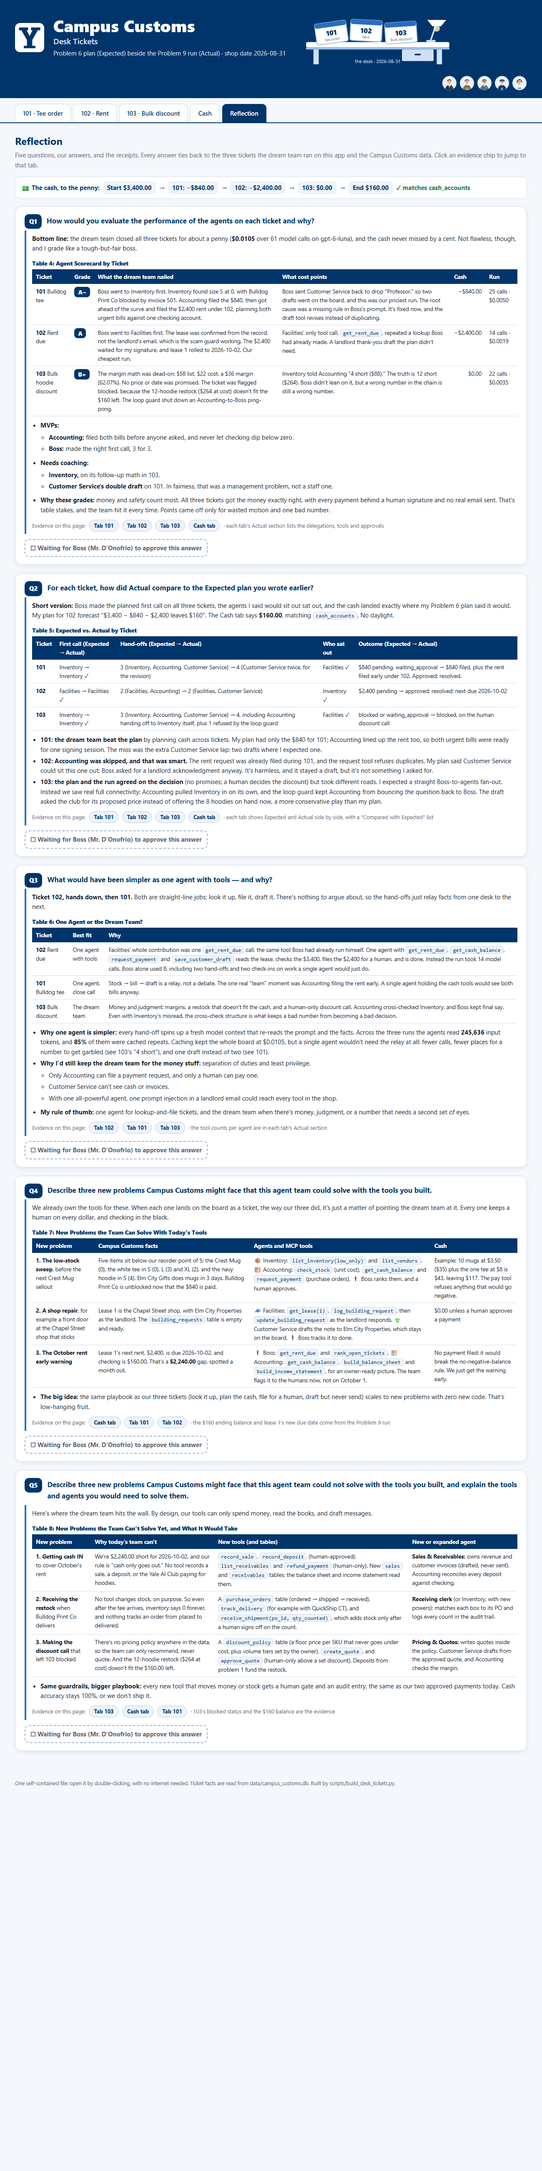
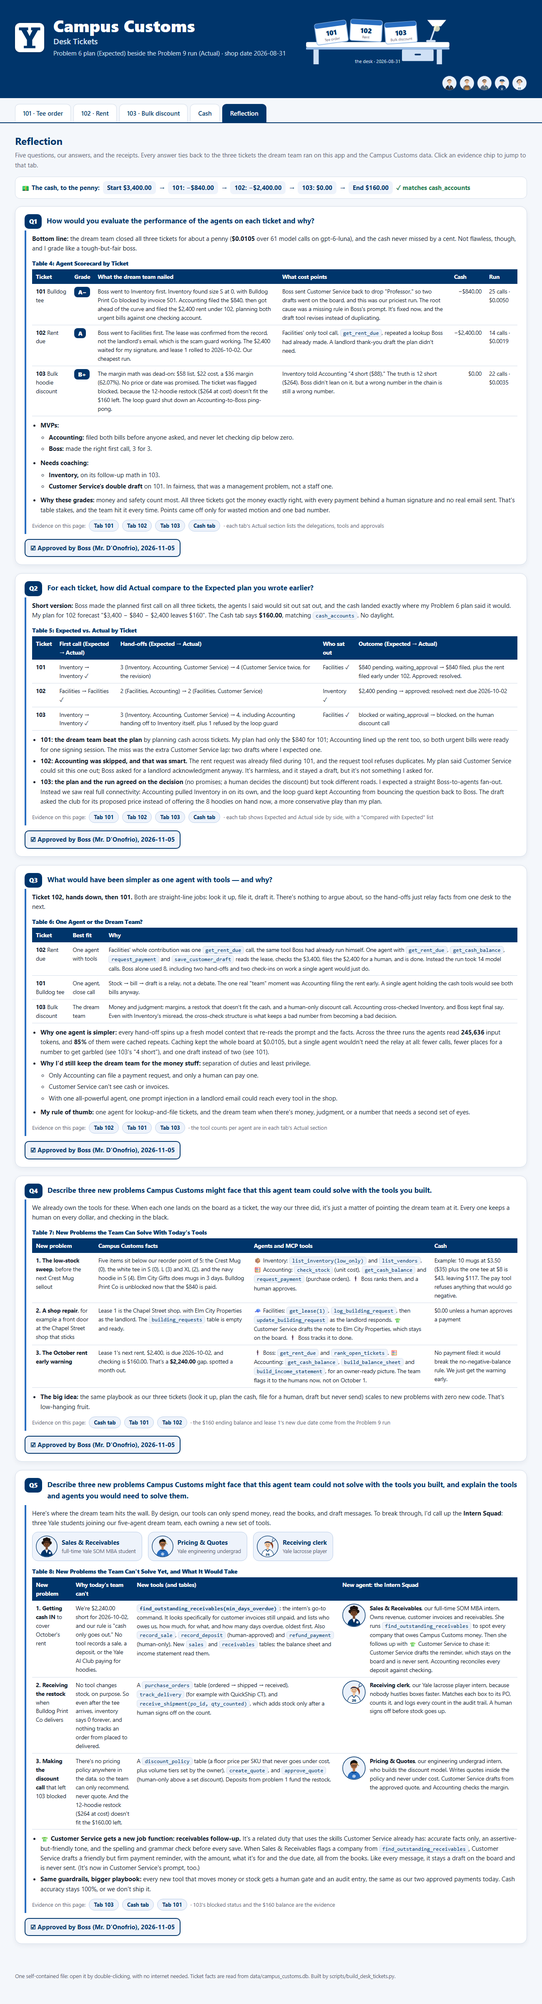
Problem 10: all five answers approved; the Intern Squad
Three Yale student intern avatars in Q5 Table 8, find_outstanding_receivables
for Sales & Receivables, and receivables follow-up as a related Customer
Service duty (prompt updated).

diff --git a/hw5/output/desk_tickets.html b/hw5/output/desk_tickets.html
@@ -1833,6 +1833,9 @@ footer{color:var(--muted);font-size:12.5px;padding:0 36px 30px}
 .qa table{width:100%;border-collapse:collapse;margin:10px 0;font-size:13.5px}.qa caption{text-align:left;font-weight:800;color:var(--yale);padding:4px 0}
 .qa th{background:var(--yale);color:#fff;text-align:left;padding:7px 9px;vertical-align:top}.qa td{border-bottom:1px solid var(--line);padding:7px 9px;vertical-align:top}
 .qa td.n{white-space:nowrap;text-align:right}
+.squad{display:flex;flex-wrap:wrap;gap:14px;margin:10px 0 6px}.squad .who{display:flex;gap:10px;align-items:center;background:var(--tint);border:1px solid #b9cde8;border-radius:14px;padding:8px 14px 8px 8px}
+.squad .who b{color:var(--yale)}.squad .who small{display:block;color:var(--muted)}
+.agentcell{display:flex;gap:10px;align-items:flex-start}.agentcell svg{flex:none}
 .grade{display:inline-block;background:var(--yale);color:#fff;font-weight:900;border-radius:8px;padding:2px 9px}
 .ev{display:flex;flex-wrap:wrap;gap:8px;align-items:center;margin:12px 0 4px;font-size:13px;color:var(--muted)}
 .ev label{cursor:pointer;background:var(--tint);color:var(--yale);border:1px solid #b9cde8;border-radius:999px;padding:3px 11px;font-weight:700}
@@ -1863,7 +1866,7 @@ footer{color:var(--muted);font-size:12.5px;padding:0 36px 30px}
   <li><b>Customer Service's double draft</b> on 101. In fairness, that was a management problem, not a staff one.</li>
   </ul></li>
 <li><b>Why these grades:</b> money and safety count most. All three tickets got the money exactly right, with every payment behind a human signature and no real email sent. That's table stakes, and the team hit it every time. Points came off only for wasted motion and one bad number.</li>
-</ul><div class="ev">Evidence on this page: <label for="r101">Tab 101</label><label for="r102">Tab 102</label><label for="r103">Tab 103</label><label for="rcash">Cash tab</label> · each tab's Actual section lists the delegations, tools and approvals</div></div><div class="approve">☐ Waiting for Boss (Mr. D'Onofrio) to approve this answer</div></div>
+</ul><div class="ev">Evidence on this page: <label for="r101">Tab 101</label><label for="r102">Tab 102</label><label for="r103">Tab 103</label><label for="rcash">Cash tab</label> · each tab's Actual section lists the delegations, tools and approvals</div></div><div class="approve yes">☑ Approved by Boss (Mr. D'Onofrio), 2026-11-05</div></div>
 <div class="qa" id="q2"><div class="q"><span class="qn">Q2</span><h3>For each ticket, how did Actual compare to the Expected plan you wrote earlier?</h3></div>
   <div class="answer"><p><b>Short version:</b> Boss made the planned first call on all three tickets, the agents I said would sit out sat out, and the cash landed exactly where my Problem 6 plan said it would. My plan for 102 forecast "$3,400 − $840 − $2,400 leaves $160". The Cash tab says <b>$160.00</b>, matching <code>cash_accounts</code>. No daylight.</p>
 <table><caption>Table 5: Expected vs. Actual by Ticket</caption>
@@ -1876,7 +1879,7 @@ footer{color:var(--muted);font-size:12.5px;padding:0 36px 30px}
 <li><b>101: the dream team beat the plan</b> by planning cash across tickets. My plan had only the $840 for 101; Accounting lined up the rent too, so both urgent bills were ready for one signing session. The miss was the extra Customer Service lap: two drafts where I expected one.</li>
 <li><b>102: Accounting was skipped, and that was smart.</b> The rent request was already filed during 101, and the request tool refuses duplicates. My plan said Customer Service could sit this one out; Boss asked for a landlord acknowledgment anyway. It's harmless, and it stayed a draft, but it's not something I asked for.</li>
 <li><b>103: the plan and the run agreed on the decision</b> (no promises; a human decides the discount) but took different roads. I expected a straight Boss-to-agents fan-out. Instead we saw real full connectivity: Accounting pulled Inventory in on its own, and the loop guard kept Accounting from bouncing the question back to Boss. The draft asked the club for its proposed price instead of offering the 8 hoodies on hand now, a more conservative play than my plan.</li>
-</ul><div class="ev">Evidence on this page: <label for="r101">Tab 101</label><label for="r102">Tab 102</label><label for="r103">Tab 103</label><label for="rcash">Cash tab</label> · each tab shows Expected and Actual side by side, with a "Compared with Expected" list</div></div><div class="approve">☐ Waiting for Boss (Mr. D'Onofrio) to approve this answer</div></div>
+</ul><div class="ev">Evidence on this page: <label for="r101">Tab 101</label><label for="r102">Tab 102</label><label for="r103">Tab 103</label><label for="rcash">Cash tab</label> · each tab shows Expected and Actual side by side, with a "Compared with Expected" list</div></div><div class="approve yes">☑ Approved by Boss (Mr. D'Onofrio), 2026-11-05</div></div>
 <div class="qa" id="q3"><div class="q"><span class="qn">Q3</span><h3>What would have been simpler as one agent with tools — and why?</h3></div>
   <div class="answer"><p><b>Ticket 102, hands down, then 101.</b> Both are straight-line jobs: look it up, file it, draft it. There's nothing to argue about, so the hand-offs just relay facts from one desk to the next.</p>
 <table><caption>Table 6: One Agent or the Dream Team?</caption>
@@ -1894,7 +1897,7 @@ footer{color:var(--muted);font-size:12.5px;padding:0 36px 30px}
   <li>With one all-powerful agent, one prompt injection in a landlord email could reach every tool in the shop.</li>
   </ul></li>
 <li><b>My rule of thumb:</b> one agent for lookup-and-file tickets, and the dream team when there's money, judgment, or a number that needs a second set of eyes.</li>
-</ul><div class="ev">Evidence on this page: <label for="r102">Tab 102</label><label for="r101">Tab 101</label><label for="r103">Tab 103</label> · the tool counts per agent are in each tab's Actual section</div></div><div class="approve">☐ Waiting for Boss (Mr. D'Onofrio) to approve this answer</div></div>
+</ul><div class="ev">Evidence on this page: <label for="r102">Tab 102</label><label for="r101">Tab 101</label><label for="r103">Tab 103</label> · the tool counts per agent are in each tab's Actual section</div></div><div class="approve yes">☑ Approved by Boss (Mr. D'Onofrio), 2026-11-05</div></div>
 <div class="qa" id="q4"><div class="q"><span class="qn">Q4</span><h3>Describe three new problems Campus Customs might face that this agent team could solve with the tools you built.</h3></div>
   <div class="answer"><p>We already own the tools for these. When each one lands on the board as a ticket, the way our three did, it's just a matter of pointing the dream team at it. Every one keeps a human on every dollar, and checking in the black.</p>
 <table><caption>Table 7: New Problems the Team Can Solve With Today's Tools</caption>
@@ -1903,16 +1906,152 @@ footer{color:var(--muted);font-size:12.5px;padding:0 36px 30px}
 <tr><td><b>2. A shop repair</b>, for example a front door at the Chapel Street shop that sticks</td><td>Lease 1 is the Chapel Street shop, with Elm City Properties as the landlord. The <code>building_requests</code> table is empty and ready.</td><td>🧢 Facilities: <code>get_lease(1)</code>, <code>log_building_request</code>, then <code>update_building_request</code> as the landlord responds. 👕 Customer Service drafts the note to Elm City Properties, which stays on the board. 🕴 Boss tracks it to done.</td><td>$0.00 unless a human approves a payment</td></tr>
 <tr><td><b>3. The October rent early warning</b></td><td>Lease 1's next rent, $2,400, is due 2026-10-02, and checking is $160.00. That's a <b>$2,240.00</b> gap, spotted a month out.</td><td>🕴 Boss: <code>get_rent_due</code> and <code>rank_open_tickets</code>. 🧮 Accounting: <code>get_cash_balance</code>, <code>build_balance_sheet</code> and <code>build_income_statement</code>, for an owner-ready picture. The team flags it to the humans now, not on October 1.</td><td>No payment filed: it would break the no-negative-balance rule. We just get the warning early.</td></tr>
 </table>
-<ul><li><b>The big idea:</b> the same playbook as our three tickets (look it up, plan the cash, file for a human, draft but never send) scales to new problems with zero new code. That's low-hanging fruit.</li></ul><div class="ev">Evidence on this page: <label for="rcash">Cash tab</label><label for="r101">Tab 101</label><label for="r102">Tab 102</label> · the $160 ending balance and lease 1's new due date come from the Problem 9 run</div></div><div class="approve">☐ Waiting for Boss (Mr. D'Onofrio) to approve this answer</div></div>
+<ul><li><b>The big idea:</b> the same playbook as our three tickets (look it up, plan the cash, file for a human, draft but never send) scales to new problems with zero new code. That's low-hanging fruit.</li></ul><div class="ev">Evidence on this page: <label for="rcash">Cash tab</label><label for="r101">Tab 101</label><label for="r102">Tab 102</label> · the $160 ending balance and lease 1's new due date come from the Problem 9 run</div></div><div class="approve yes">☑ Approved by Boss (Mr. D'Onofrio), 2026-11-05</div></div>
 <div class="qa" id="q5"><div class="q"><span class="qn">Q5</span><h3>Describe three new problems Campus Customs might face that this agent team could not solve with the tools you built, and explain the tools and agents you would need to solve them.</h3></div>
-  <div class="answer"><p>Here's where the dream team hits the wall. By design, our tools can only spend money, read the books, and draft messages.</p>
+  <div class="answer"><p>Here's where the dream team hits the wall. By design, our tools can only spend money, read the books, and draft messages. To break through, I'd call up the <b>Intern Squad</b>: three Yale students joining our five-agent dream team, each owning a new set of tools.</p>
+<div class="squad">
+  <div class="who"><svg width="52" height="52" class="intern-face" xmlns="http://www.w3.org/2000/svg" viewBox="0 0 120 120" role="img" aria-label="Intern Squad, Sales and Receivables: a full-time Yale SOM MBA student in a navy blazer with an SOM pin">
+  <title>Intern Squad · Sales &amp; Receivables: a full-time Yale SOM MBA student in a navy blazer with an SOM pin</title>
+  <circle cx="60" cy="60" r="58" fill="#eaf1fb" stroke="#00356b" stroke-width="3"/>
+  <clipPath id="c-intern_mba-52"><circle cx="60" cy="60" r="56"/></clipPath>
+  <g clip-path="url(#c-intern_mba-52)">
+    <g fill="#1d1410">
+      <circle cx="60" cy="42" r="22"/><circle cx="41" cy="40" r="9"/><circle cx="79" cy="40" r="9"/>
+      <circle cx="49" cy="24" r="10"/><circle cx="71" cy="24" r="10"/><circle cx="60" cy="20" r="10"/>
+    </g>
+    <path d="M26,120 C26,90 40,76 60,76 C80,76 94,90 94,120 Z" fill="#00356b"/>
+    <polygon points="51,77 60,98 69,77" fill="#ffffff"/>
+    <path d="M51,77 L57,104 M69,77 L63,104" stroke="#00264d" stroke-width="3" fill="none"/>
+    <circle cx="78" cy="96" r="6" fill="#ffffff"/><text x="78" y="98" font-family="Arial, sans-serif" font-size="4.6" font-weight="700" fill="#00356b" text-anchor="middle">SOM</text>
+    <rect x="54" y="60" width="12" height="18" fill="#7a4a2e"/>
+    <circle cx="60" cy="47" r="17" fill="#7a4a2e"/>
+    <path d="M43,45 C43,30 77,30 77,45 C72,36 48,36 43,45 Z" fill="#1d1410"/>
+    <circle cx="54" cy="48" r="1.8" fill="#111"/><circle cx="66" cy="48" r="1.8" fill="#111"/>
+    <path d="M51,44 Q54,42 57,44 M63,44 Q66,42 69,44" stroke="#1d1410" stroke-width="1.2" fill="none"/>
+    <path d="M54,55 Q60,60 66,55" stroke="#4a2418" stroke-width="1.8" fill="none" stroke-linecap="round"/>
+    <circle cx="43.5" cy="53" r="1.8" fill="#f5d76e"/><circle cx="76.5" cy="53" r="1.8" fill="#f5d76e"/>
+  </g>
+</svg>
+<div><b>Sales &amp; Receivables</b><small>full-time Yale SOM MBA student</small></div></div>
+  <div class="who"><svg width="52" height="52" class="intern-face" xmlns="http://www.w3.org/2000/svg" viewBox="0 0 120 120" role="img" aria-label="Intern Squad, Pricing and Quotes: a Yale engineering undergrad with glasses, a pencil and a gear tee">
+  <title>Intern Squad · Pricing &amp; Quotes: a Yale engineering undergrad with glasses, a pencil and a gear tee</title>
+  <circle cx="60" cy="60" r="58" fill="#eaf1fb" stroke="#00356b" stroke-width="3"/>
+  <clipPath id="c-intern_engineer-52"><circle cx="60" cy="60" r="56"/></clipPath>
+  <g clip-path="url(#c-intern_engineer-52)">
+    <path d="M26,120 C26,90 40,76 60,76 C80,76 94,90 94,120 Z" fill="#286dc0"/>
+    <path d="M48,78 C52,86 68,86 72,78" stroke="#00356b" stroke-width="3" fill="none"/>
+    <circle cx="60" cy="102" r="7" fill="none" stroke="#ffffff" stroke-width="4" stroke-dasharray="3 2.5"/>
+    <circle cx="60" cy="102" r="4.5" fill="#ffffff"/><circle cx="60" cy="102" r="1.8" fill="#286dc0"/>
+    <rect x="54" y="60" width="12" height="18" fill="#b97a4f"/>
+    <circle cx="60" cy="47" r="17" fill="#b97a4f"/>
+    <path d="M42,47 C37,27 48,19 61,20 C75,21 83,31 78,47 C76,38 70,34 60,34 C51,34 45,38 42,47 Z" fill="#111111"/><path d="M52,22 C56,17 64,17 68,21 C63,20 57,21 52,22 Z" fill="#111111"/>
+    <circle cx="54" cy="48" r="5" fill="none" stroke="#1b1b1b" stroke-width="1.6"/>
+    <circle cx="66" cy="48" r="5" fill="none" stroke="#1b1b1b" stroke-width="1.6"/>
+    <path d="M59,48 L61,48 M49,47 L44,45 M71,47 L76,45" stroke="#1b1b1b" stroke-width="1.6"/>
+    <circle cx="54" cy="48" r="1.6" fill="#111"/><circle cx="66" cy="48" r="1.6" fill="#111"/>
+    <path d="M54,56 Q60,60 66,56" stroke="#5a2e1c" stroke-width="1.8" fill="none" stroke-linecap="round"/>
+    <path d="M75,34 L83,46" stroke="#f2c14e" stroke-width="3" stroke-linecap="round"/><path d="M83,46 L84.5,48.5" stroke="#333" stroke-width="2" stroke-linecap="round"/>
+  </g>
+</svg>
+<div><b>Pricing &amp; Quotes</b><small>Yale engineering undergrad</small></div></div>
+  <div class="who"><svg width="52" height="52" class="intern-face" xmlns="http://www.w3.org/2000/svg" viewBox="0 0 120 120" role="img" aria-label="Intern Squad, Receiving clerk: a Yale lacrosse player in a white number 26 jersey and headband, with her stick">
+  <title>Intern Squad · Receiving clerk: a Yale lacrosse player in a white #26 jersey and headband, with her stick</title>
+  <circle cx="60" cy="60" r="58" fill="#eaf1fb" stroke="#00356b" stroke-width="3"/>
+  <clipPath id="c-intern_lacrosse-52"><circle cx="60" cy="60" r="56"/></clipPath>
+  <g clip-path="url(#c-intern_lacrosse-52)">
+    <path d="M24,122 L90,28" stroke="#3a3a3a" stroke-width="3.2" stroke-linecap="round"/>
+    <g transform="translate(94,22) rotate(35)">
+      <ellipse cx="0" cy="0" rx="7" ry="11" fill="#ffffff" fill-opacity=".6" stroke="#00356b" stroke-width="2.6"/>
+      <path d="M-5,-5 L5,-5 M-6,0 L6,0 M-5,5 L5,5 M0,-10 L0,10" stroke="#9cb4d6" stroke-width="1"/>
+    </g>
+    <path d="M74,36 C92,40 95,62 85,74 C86,60 82,49 72,44 Z" fill="#8a3b1e"/>
+    <path d="M26,120 C26,90 40,76 60,76 C80,76 94,90 94,120 Z" fill="#ffffff" stroke="#00356b" stroke-width="2.5"/>
+    <path d="M50,77 L60,88 L70,77" stroke="#00356b" stroke-width="3.5" fill="none"/>
+    <text x="60" y="110" font-family="Arial, sans-serif" font-size="17" font-weight="900" fill="#00356b" text-anchor="middle">26</text>
+    <rect x="54" y="60" width="12" height="18" fill="#f0c39a"/>
+    <circle cx="60" cy="47" r="17" fill="#f0c39a"/>
+    <path d="M43,45 C42,28 78,28 77,45 C73,36 47,36 43,45 Z" fill="#8a3b1e"/>
+    <path d="M43,40 C50,33 70,33 77,40 L77,44 C70,37 50,37 43,44 Z" fill="#00356b"/>
+    <circle cx="54" cy="48" r="1.8" fill="#222"/><circle cx="66" cy="48" r="1.8" fill="#222"/>
+    <circle cx="50" cy="55" r=".7" fill="#c47a52"/><circle cx="52" cy="56.5" r=".7" fill="#c47a52"/><circle cx="70" cy="55" r=".7" fill="#c47a52"/><circle cx="68" cy="56.5" r=".7" fill="#c47a52"/>
+    <path d="M53,57 Q60,62 67,57" stroke="#8a4b3a" stroke-width="1.8" fill="none" stroke-linecap="round"/>
+  </g>
+</svg>
+<div><b>Receiving clerk</b><small>Yale lacrosse player</small></div></div>
+</div>
 <table><caption>Table 8: New Problems the Team Can't Solve Yet, and What It Would Take</caption>
-<tr><th>New problem</th><th>Why today's team can't</th><th>New tools (and tables)</th><th>New or expanded agent</th></tr>
-<tr><td><b>1. Getting cash IN</b> to cover October's rent</td><td>We're $2,240.00 short for 2026-10-02, and our rule is "cash only goes out." No tool records a sale, a deposit, or the Yale AI Club paying for hoodies.</td><td><code>record_sale</code>, <code>record_deposit</code> (human-approved), <code>list_receivables</code> and <code>refund_payment</code> (human-only). New <code>sales</code> and <code>receivables</code> tables; the balance sheet and income statement read them.</td><td><b>Sales &amp; Receivables:</b> owns revenue and customer invoices (drafted, never sent). Accounting reconciles every deposit against checking.</td></tr>
-<tr><td><b>2. Receiving the restock</b> when Bulldog Print Co delivers</td><td>No tool changes stock, on purpose. So even after the tee arrives, inventory says 0 forever, and nothing tracks an order from placed to delivered.</td><td>A <code>purchase_orders</code> table (ordered → shipped → received), <code>track_delivery</code> (for example with QuickShip CT), and <code>receive_shipment(po_id, qty_counted)</code>, which adds stock only after a human signs off on the count.</td><td><b>Receiving clerk</b> (or Inventory, with new powers): matches each box to its PO and logs every count in the audit trail.</td></tr>
-<tr><td><b>3. Making the discount call</b> that left 103 blocked</td><td>There's no pricing policy anywhere in the data, so the team can only recommend, never quote. And the 12-hoodie restock ($264 at cost) doesn't fit the $160.00 left.</td><td>A <code>discount_policy</code> table (a floor price per SKU that never goes under cost, plus volume tiers set by the owner), <code>create_quote</code>, and <code>approve_quote</code> (human-only above a set discount). Deposits from problem 1 fund the restock.</td><td><b>Pricing &amp; Quotes:</b> writes quotes inside the policy. Customer Service drafts from the approved quote, and Accounting checks the margin.</td></tr>
+<tr><th>New problem</th><th>Why today's team can't</th><th>New tools (and tables)</th><th>New agent: the Intern Squad</th></tr>
+<tr><td><b>1. Getting cash IN</b> to cover October's rent</td><td>We're $2,240.00 short for 2026-10-02, and our rule is "cash only goes out." No tool records a sale, a deposit, or the Yale AI Club paying for hoodies.</td><td><b><code>find_outstanding_receivables(min_days_overdue)</code></b>: the intern's go-to command. It looks specifically for customer invoices still unpaid, and lists who owes us, how much, for what, and how many days overdue, oldest first. Also <code>record_sale</code>, <code>record_deposit</code> (human-approved) and <code>refund_payment</code> (human-only). New <code>sales</code> and <code>receivables</code> tables; the balance sheet and income statement read them.</td><td><div class="agentcell"><svg width="56" height="56" class="intern-face" xmlns="http://www.w3.org/2000/svg" viewBox="0 0 120 120" role="img" aria-label="Intern Squad, Sales and Receivables: a full-time Yale SOM MBA student in a navy blazer with an SOM pin">
+  <title>Intern Squad · Sales &amp; Receivables: a full-time Yale SOM MBA student in a navy blazer with an SOM pin</title>
+  <circle cx="60" cy="60" r="58" fill="#eaf1fb" stroke="#00356b" stroke-width="3"/>
+  <clipPath id="c-intern_mba-56"><circle cx="60" cy="60" r="56"/></clipPath>
+  <g clip-path="url(#c-intern_mba-56)">
+    <g fill="#1d1410">
+      <circle cx="60" cy="42" r="22"/><circle cx="41" cy="40" r="9"/><circle cx="79" cy="40" r="9"/>
+      <circle cx="49" cy="24" r="10"/><circle cx="71" cy="24" r="10"/><circle cx="60" cy="20" r="10"/>
+    </g>
+    <path d="M26,120 C26,90 40,76 60,76 C80,76 94,90 94,120 Z" fill="#00356b"/>
+    <polygon points="51,77 60,98 69,77" fill="#ffffff"/>
+    <path d="M51,77 L57,104 M69,77 L63,104" stroke="#00264d" stroke-width="3" fill="none"/>
+    <circle cx="78" cy="96" r="6" fill="#ffffff"/><text x="78" y="98" font-family="Arial, sans-serif" font-size="4.6" font-weight="700" fill="#00356b" text-anchor="middle">SOM</text>
+    <rect x="54" y="60" width="12" height="18" fill="#7a4a2e"/>
+    <circle cx="60" cy="47" r="17" fill="#7a4a2e"/>
+    <path d="M43,45 C43,30 77,30 77,45 C72,36 48,36 43,45 Z" fill="#1d1410"/>
+    <circle cx="54" cy="48" r="1.8" fill="#111"/><circle cx="66" cy="48" r="1.8" fill="#111"/>
+    <path d="M51,44 Q54,42 57,44 M63,44 Q66,42 69,44" stroke="#1d1410" stroke-width="1.2" fill="none"/>
+    <path d="M54,55 Q60,60 66,55" stroke="#4a2418" stroke-width="1.8" fill="none" stroke-linecap="round"/>
+    <circle cx="43.5" cy="53" r="1.8" fill="#f5d76e"/><circle cx="76.5" cy="53" r="1.8" fill="#f5d76e"/>
+  </g>
+</svg>
+<div><b>Sales &amp; Receivables</b>, our full-time SOM MBA intern. Owns revenue, customer invoices and receivables. She runs <code>find_outstanding_receivables</code> to spot every company that owes Campus Customs money. Then she follows up with 👕 Customer Service to chase it: Customer Service drafts the reminder, which stays on the board and is never sent. Accounting reconciles every deposit against checking.</div></div></td></tr>
+<tr><td><b>2. Receiving the restock</b> when Bulldog Print Co delivers</td><td>No tool changes stock, on purpose. So even after the tee arrives, inventory says 0 forever, and nothing tracks an order from placed to delivered.</td><td>A <code>purchase_orders</code> table (ordered → shipped → received), <code>track_delivery</code> (for example with QuickShip CT), and <code>receive_shipment(po_id, qty_counted)</code>, which adds stock only after a human signs off on the count.</td><td><div class="agentcell"><svg width="56" height="56" class="intern-face" xmlns="http://www.w3.org/2000/svg" viewBox="0 0 120 120" role="img" aria-label="Intern Squad, Receiving clerk: a Yale lacrosse player in a white number 26 jersey and headband, with her stick">
+  <title>Intern Squad · Receiving clerk: a Yale lacrosse player in a white #26 jersey and headband, with her stick</title>
+  <circle cx="60" cy="60" r="58" fill="#eaf1fb" stroke="#00356b" stroke-width="3"/>
+  <clipPath id="c-intern_lacrosse-56"><circle cx="60" cy="60" r="56"/></clipPath>
+  <g clip-path="url(#c-intern_lacrosse-56)">
+    <path d="M24,122 L90,28" stroke="#3a3a3a" stroke-width="3.2" stroke-linecap="round"/>
+    <g transform="translate(94,22) rotate(35)">
+      <ellipse cx="0" cy="0" rx="7" ry="11" fill="#ffffff" fill-opacity=".6" stroke="#00356b" stroke-width="2.6"/>
+      <path d="M-5,-5 L5,-5 M-6,0 L6,0 M-5,5 L5,5 M0,-10 L0,10" stroke="#9cb4d6" stroke-width="1"/>
+    </g>
+    <path d="M74,36 C92,40 95,62 85,74 C86,60 82,49 72,44 Z" fill="#8a3b1e"/>
+    <path d="M26,120 C26,90 40,76 60,76 C80,76 94,90 94,120 Z" fill="#ffffff" stroke="#00356b" stroke-width="2.5"/>
+    <path d="M50,77 L60,88 L70,77" stroke="#00356b" stroke-width="3.5" fill="none"/>
+    <text x="60" y="110" font-family="Arial, sans-serif" font-size="17" font-weight="900" fill="#00356b" text-anchor="middle">26</text>
+    <rect x="54" y="60" width="12" height="18" fill="#f0c39a"/>
+    <circle cx="60" cy="47" r="17" fill="#f0c39a"/>
+    <path d="M43,45 C42,28 78,28 77,45 C73,36 47,36 43,45 Z" fill="#8a3b1e"/>
+    <path d="M43,40 C50,33 70,33 77,40 L77,44 C70,37 50,37 43,44 Z" fill="#00356b"/>
+    <circle cx="54" cy="48" r="1.8" fill="#222"/><circle cx="66" cy="48" r="1.8" fill="#222"/>
+    <circle cx="50" cy="55" r=".7" fill="#c47a52"/><circle cx="52" cy="56.5" r=".7" fill="#c47a52"/><circle cx="70" cy="55" r=".7" fill="#c47a52"/><circle cx="68" cy="56.5" r=".7" fill="#c47a52"/>
+    <path d="M53,57 Q60,62 67,57" stroke="#8a4b3a" stroke-width="1.8" fill="none" stroke-linecap="round"/>
+  </g>
+</svg>
+<div><b>Receiving clerk</b>, our Yale lacrosse player intern, because nobody hustles boxes faster. Matches each box to its PO, counts it, and logs every count in the audit trail. A human signs off before stock goes up.</div></div></td></tr>
+<tr><td><b>3. Making the discount call</b> that left 103 blocked</td><td>There's no pricing policy anywhere in the data, so the team can only recommend, never quote. And the 12-hoodie restock ($264 at cost) doesn't fit the $160.00 left.</td><td>A <code>discount_policy</code> table (a floor price per SKU that never goes under cost, plus volume tiers set by the owner), <code>create_quote</code>, and <code>approve_quote</code> (human-only above a set discount). Deposits from problem 1 fund the restock.</td><td><div class="agentcell"><svg width="56" height="56" class="intern-face" xmlns="http://www.w3.org/2000/svg" viewBox="0 0 120 120" role="img" aria-label="Intern Squad, Pricing and Quotes: a Yale engineering undergrad with glasses, a pencil and a gear tee">
+  <title>Intern Squad · Pricing &amp; Quotes: a Yale engineering undergrad with glasses, a pencil and a gear tee</title>
+  <circle cx="60" cy="60" r="58" fill="#eaf1fb" stroke="#00356b" stroke-width="3"/>
+  <clipPath id="c-intern_engineer-56"><circle cx="60" cy="60" r="56"/></clipPath>
+  <g clip-path="url(#c-intern_engineer-56)">
+    <path d="M26,120 C26,90 40,76 60,76 C80,76 94,90 94,120 Z" fill="#286dc0"/>
+    <path d="M48,78 C52,86 68,86 72,78" stroke="#00356b" stroke-width="3" fill="none"/>
+    <circle cx="60" cy="102" r="7" fill="none" stroke="#ffffff" stroke-width="4" stroke-dasharray="3 2.5"/>
+    <circle cx="60" cy="102" r="4.5" fill="#ffffff"/><circle cx="60" cy="102" r="1.8" fill="#286dc0"/>
+    <rect x="54" y="60" width="12" height="18" fill="#b97a4f"/>
+    <circle cx="60" cy="47" r="17" fill="#b97a4f"/>
+    <path d="M42,47 C37,27 48,19 61,20 C75,21 83,31 78,47 C76,38 70,34 60,34 C51,34 45,38 42,47 Z" fill="#111111"/><path d="M52,22 C56,17 64,17 68,21 C63,20 57,21 52,22 Z" fill="#111111"/>
+    <circle cx="54" cy="48" r="5" fill="none" stroke="#1b1b1b" stroke-width="1.6"/>
+    <circle cx="66" cy="48" r="5" fill="none" stroke="#1b1b1b" stroke-width="1.6"/>
+    <path d="M59,48 L61,48 M49,47 L44,45 M71,47 L76,45" stroke="#1b1b1b" stroke-width="1.6"/>
+    <circle cx="54" cy="48" r="1.6" fill="#111"/><circle cx="66" cy="48" r="1.6" fill="#111"/>
+    <path d="M54,56 Q60,60 66,56" stroke="#5a2e1c" stroke-width="1.8" fill="none" stroke-linecap="round"/>
+    <path d="M75,34 L83,46" stroke="#f2c14e" stroke-width="3" stroke-linecap="round"/><path d="M83,46 L84.5,48.5" stroke="#333" stroke-width="2" stroke-linecap="round"/>
+  </g>
+</svg>
+<div><b>Pricing &amp; Quotes</b>, our engineering undergrad intern, who builds the discount model. Writes quotes inside the policy and never under cost. Customer Service drafts from the approved quote, and Accounting checks the margin.</div></div></td></tr>
 </table>
-<ul><li><b>Same guardrails, bigger playbook:</b> every new tool that moves money or stock gets a human gate and an audit entry, the same as our two approved payments today. Cash accuracy stays 100%, or we don't ship it.</li></ul><div class="ev">Evidence on this page: <label for="r103">Tab 103</label><label for="rcash">Cash tab</label><label for="r101">Tab 101</label> · 103's blocked status and the $160 balance are the evidence</div></div><div class="approve">☐ Waiting for Boss (Mr. D'Onofrio) to approve this answer</div></div>
+<ul><li><b>👕 Customer Service gets a new job function: receivables follow-up.</b> It's a related duty that uses the skills Customer Service already has: accurate facts only, an assertive-but-friendly tone, and the spelling and grammar check before every save. When Sales &amp; Receivables flags a company from <code>find_outstanding_receivables</code>, Customer Service drafts a friendly but firm payment reminder, with the amount, what it's for and the due date, all from the books. Like every message, it stays a draft on the board and is never sent. (It's now in Customer Service's prompt, too.)</li>
+<li><b>Same guardrails, bigger playbook:</b> every new tool that moves money or stock gets a human gate and an audit entry, the same as our two approved payments today. Cash accuracy stays 100%, or we don't ship it.</li></ul><div class="ev">Evidence on this page: <label for="r103">Tab 103</label><label for="rcash">Cash tab</label><label for="r101">Tab 101</label> · 103's blocked status and the $160 balance are the evidence</div></div><div class="approve yes">☑ Approved by Boss (Mr. D'Onofrio), 2026-11-05</div></div>
 </div></section>
 </main>
 <footer>One self-contained file: open it by double-clicking, with no internet needed. Ticket facts are read from data/campus_customs.db. Built by scripts/build_desk_tickets.py.</footer>

diff --git a/hw5/scripts/reflection.py b/hw5/scripts/reflection.py
@@ -8,8 +8,13 @@ Edit the answers here, flip APPROVED when Boss signs off, and rerun scripts/buil
 
 from __future__ import annotations
 
+import re
+from pathlib import Path
+
+AVATARS = Path(__file__).resolve().parent.parent / "assets" / "agents"
+
 # Flip to True as Boss (Mr. D'Onofrio) approves each answer.
-APPROVED = {1: False, 2: False, 3: False, 4: False, 5: False}
+APPROVED = {1: True, 2: True, 3: True, 4: True, 5: True}
 APPROVED_ON = "2026-11-05"
 
 CSS = """
@@ -24,6 +29,9 @@ CSS = """
 .qa table{width:100%;border-collapse:collapse;margin:10px 0;font-size:13.5px}.qa caption{text-align:left;font-weight:800;color:var(--yale);padding:4px 0}
 .qa th{background:var(--yale);color:#fff;text-align:left;padding:7px 9px;vertical-align:top}.qa td{border-bottom:1px solid var(--line);padding:7px 9px;vertical-align:top}
 .qa td.n{white-space:nowrap;text-align:right}
+.squad{display:flex;flex-wrap:wrap;gap:14px;margin:10px 0 6px}.squad .who{display:flex;gap:10px;align-items:center;background:var(--tint);border:1px solid #b9cde8;border-radius:14px;padding:8px 14px 8px 8px}
+.squad .who b{color:var(--yale)}.squad .who small{display:block;color:var(--muted)}
+.agentcell{display:flex;gap:10px;align-items:flex-start}.agentcell svg{flex:none}
 .grade{display:inline-block;background:var(--yale);color:#fff;font-weight:900;border-radius:8px;padding:2px 9px}
 .ev{display:flex;flex-wrap:wrap;gap:8px;align-items:center;margin:12px 0 4px;font-size:13px;color:var(--muted)}
 .ev label{cursor:pointer;background:var(--tint);color:var(--yale);border:1px solid #b9cde8;border-radius:999px;padding:3px 11px;font-weight:700}
@@ -31,6 +39,13 @@ CSS = """
 .approve{margin-top:12px;border:2px dashed #9cb4d6;border-radius:10px;padding:8px 12px;color:var(--muted);font-weight:700;display:inline-block}
 .approve.yes{border:2px solid var(--yale);color:var(--yale);background:var(--tint)}
 """
+
+def face(key: str, size: int = 64) -> str:
+    """An agent avatar from assets/agents/, with its clip id made unique on the page."""
+    svg = (AVATARS / f"{key}.svg").read_text(encoding="utf-8")
+    svg = re.sub(r'id="c"', f'id="c-{key}-{size}"', svg).replace("url(#c)", f"url(#c-{key}-{size})")
+    return svg.replace("<svg ", f'<svg width="{size}" height="{size}" class="intern-face" ', 1)
+
 
 TAB = {"101": "r101", "102": "r102", "103": "r103", "Cash": "rcash"}
 
@@ -131,14 +146,20 @@ def render(R: dict | None) -> str:
 </table>
 <ul><li><b>The big idea:</b> the same playbook as our three tickets (look it up, plan the cash, file for a human, draft but never send) scales to new problems with zero new code. That's low-hanging fruit.</li></ul>{evidence("Cash", "101", "102", note="the $160 ending balance and lease 1's new due date come from the Problem 9 run")}"""
 
-    q5 = f"""<p>Here's where the dream team hits the wall. By design, our tools can only spend money, read the books, and draft messages.</p>
+    q5 = f"""<p>Here's where the dream team hits the wall. By design, our tools can only spend money, read the books, and draft messages. To break through, I'd call up the <b>Intern Squad</b>: three Yale students joining our five-agent dream team, each owning a new set of tools.</p>
+<div class="squad">
+  <div class="who">{face("intern_mba", 52)}<div><b>Sales &amp; Receivables</b><small>full-time Yale SOM MBA student</small></div></div>
+  <div class="who">{face("intern_engineer", 52)}<div><b>Pricing &amp; Quotes</b><small>Yale engineering undergrad</small></div></div>
+  <div class="who">{face("intern_lacrosse", 52)}<div><b>Receiving clerk</b><small>Yale lacrosse player</small></div></div>
+</div>
 <table><caption>Table 8: New Problems the Team Can't Solve Yet, and What It Would Take</caption>
-<tr><th>New problem</th><th>Why today's team can't</th><th>New tools (and tables)</th><th>New or expanded agent</th></tr>
-<tr><td><b>1. Getting cash IN</b> to cover October's rent</td><td>We're ${shortfall:,.2f} short for 2026-10-02, and our rule is "cash only goes out." No tool records a sale, a deposit, or the Yale AI Club paying for hoodies.</td><td><code>record_sale</code>, <code>record_deposit</code> (human-approved), <code>list_receivables</code> and <code>refund_payment</code> (human-only). New <code>sales</code> and <code>receivables</code> tables; the balance sheet and income statement read them.</td><td><b>Sales &amp; Receivables:</b> owns revenue and customer invoices (drafted, never sent). Accounting reconciles every deposit against checking.</td></tr>
-<tr><td><b>2. Receiving the restock</b> when Bulldog Print Co delivers</td><td>No tool changes stock, on purpose. So even after the tee arrives, inventory says 0 forever, and nothing tracks an order from placed to delivered.</td><td>A <code>purchase_orders</code> table (ordered → shipped → received), <code>track_delivery</code> (for example with QuickShip CT), and <code>receive_shipment(po_id, qty_counted)</code>, which adds stock only after a human signs off on the count.</td><td><b>Receiving clerk</b> (or Inventory, with new powers): matches each box to its PO and logs every count in the audit trail.</td></tr>
-<tr><td><b>3. Making the discount call</b> that left 103 blocked</td><td>There's no pricing policy anywhere in the data, so the team can only recommend, never quote. And the 12-hoodie restock ($264 at cost) doesn't fit the ${end:,.2f} left.</td><td>A <code>discount_policy</code> table (a floor price per SKU that never goes under cost, plus volume tiers set by the owner), <code>create_quote</code>, and <code>approve_quote</code> (human-only above a set discount). Deposits from problem 1 fund the restock.</td><td><b>Pricing &amp; Quotes:</b> writes quotes inside the policy. Customer Service drafts from the approved quote, and Accounting checks the margin.</td></tr>
+<tr><th>New problem</th><th>Why today's team can't</th><th>New tools (and tables)</th><th>New agent: the Intern Squad</th></tr>
+<tr><td><b>1. Getting cash IN</b> to cover October's rent</td><td>We're ${shortfall:,.2f} short for 2026-10-02, and our rule is "cash only goes out." No tool records a sale, a deposit, or the Yale AI Club paying for hoodies.</td><td><b><code>find_outstanding_receivables(min_days_overdue)</code></b>: the intern's go-to command. It looks specifically for customer invoices still unpaid, and lists who owes us, how much, for what, and how many days overdue, oldest first. Also <code>record_sale</code>, <code>record_deposit</code> (human-approved) and <code>refund_payment</code> (human-only). New <code>sales</code> and <code>receivables</code> tables; the balance sheet and income statement read them.</td><td><div class="agentcell">{face("intern_mba", 56)}<div><b>Sales &amp; Receivables</b>, our full-time SOM MBA intern. Owns revenue, customer invoices and receivables. She runs <code>find_outstanding_receivables</code> to spot every company that owes Campus Customs money. Then she follows up with 👕 Customer Service to chase it: Customer Service drafts the reminder, which stays on the board and is never sent. Accounting reconciles every deposit against checking.</div></div></td></tr>
+<tr><td><b>2. Receiving the restock</b> when Bulldog Print Co delivers</td><td>No tool changes stock, on purpose. So even after the tee arrives, inventory says 0 forever, and nothing tracks an order from placed to delivered.</td><td>A <code>purchase_orders</code> table (ordered → shipped → received), <code>track_delivery</code> (for example with QuickShip CT), and <code>receive_shipment(po_id, qty_counted)</code>, which adds stock only after a human signs off on the count.</td><td><div class="agentcell">{face("intern_lacrosse", 56)}<div><b>Receiving clerk</b>, our Yale lacrosse player intern, because nobody hustles boxes faster. Matches each box to its PO, counts it, and logs every count in the audit trail. A human signs off before stock goes up.</div></div></td></tr>
+<tr><td><b>3. Making the discount call</b> that left 103 blocked</td><td>There's no pricing policy anywhere in the data, so the team can only recommend, never quote. And the 12-hoodie restock ($264 at cost) doesn't fit the ${end:,.2f} left.</td><td>A <code>discount_policy</code> table (a floor price per SKU that never goes under cost, plus volume tiers set by the owner), <code>create_quote</code>, and <code>approve_quote</code> (human-only above a set discount). Deposits from problem 1 fund the restock.</td><td><div class="agentcell">{face("intern_engineer", 56)}<div><b>Pricing &amp; Quotes</b>, our engineering undergrad intern, who builds the discount model. Writes quotes inside the policy and never under cost. Customer Service drafts from the approved quote, and Accounting checks the margin.</div></div></td></tr>
 </table>
-<ul><li><b>Same guardrails, bigger playbook:</b> every new tool that moves money or stock gets a human gate and an audit entry, the same as our two approved payments today. Cash accuracy stays 100%, or we don't ship it.</li></ul>{evidence("103", "Cash", "101", note="103's blocked status and the $160 balance are the evidence")}"""
+<ul><li><b>👕 Customer Service gets a new job function: receivables follow-up.</b> It's a related duty that uses the skills Customer Service already has: accurate facts only, an assertive-but-friendly tone, and the spelling and grammar check before every save. When Sales &amp; Receivables flags a company from <code>find_outstanding_receivables</code>, Customer Service drafts a friendly but firm payment reminder, with the amount, what it's for and the due date, all from the books. Like every message, it stays a draft on the board and is never sent. (It's now in Customer Service's prompt, too.)</li>
+<li><b>Same guardrails, bigger playbook:</b> every new tool that moves money or stock gets a human gate and an audit entry, the same as our two approved payments today. Cash accuracy stays 100%, or we don't ship it.</li></ul>{evidence("103", "Cash", "101", note="103's blocked status and the $160 balance are the evidence")}"""
 
     return f"""<style>{CSS}</style><div class="refl">
 <h2>Reflection</h2>

diff --git a/hw5/AI_prompts.md b/hw5/AI_prompts.md
@@ -835,7 +835,7 @@ Then, at the approval questions, I picked **"Approve $840"** (invoice 501, ticke
 
 > big money here, let's do it.  take your time, i'm going for a quick run and then i'll review
 
-**Outcome (waiting for my approval of each answer):**
+**Outcome:**
 
 - **The Reflection tab is filled in.** It has all 5 assignment bullets as questions (Q1–Q5), each with a proposed answer in my vibe and its own approval box.
 - **Evidence on the same page:**
@@ -847,6 +847,28 @@ Then, at the approval questions, I picked **"Approve $840"** (invoice 501, ticke
   - every tool named is checked against `mcp_server/server.py`
 - **New tables:** Table 4: Agent Scorecard by Ticket; Table 5: Expected vs. Actual by Ticket; Table 6: One Agent or the Dream Team?; Table 7: New Problems the Team Can Solve With Today's Tools; Table 8: New Problems the Team Can't Solve Yet, and What It Would Take.
 - **No model calls or money were spent** writing it.
+
+**Follow-up prompts:**
+
+> all approved but add to the accounts receivable agent that the agent follows up with customer service to follow up with companies that owe campus Customs money in receivables, and then add that as a job function to the existing customer service agent.  lastly, make avatars for our 3 new agents and call them the Intern Squad - we want to use Yale students for these roles - create a diverse group of 3 student interns - one should be a lacrosse player, one an engineering undergrad and one a full time SOM MBA student.  out the avatars in the Q5 Answer chart.
+
+> and the receivable agent needs to have a function command that it looks for these outstanding invoices specifically if it doesn't already.  specify the new customer service job function as a related duty with similar skills
+
+**What was lacking after the first:** I wanted the receivables agent to chase what's owed through Customer Service, with a command that finds those invoices, and our three new agents to have faces.
+
+**Outcome:**
+
+- **All five answers are approved**, and each shows ☑ Approved by Boss (Mr. D'Onofrio).
+- **The Intern Squad**, three Yale student interns with avatars in Yale blue and white, is in the Q5 strip and in Table 8:
+  - **Sales & Receivables:** a full-time Yale SOM MBA student
+  - **Pricing & Quotes:** a Yale engineering undergrad
+  - **Receiving clerk:** a Yale lacrosse player, #26
+- **The avatars** are `assets/agents/intern_mba.svg`, `intern_engineer.svg` and `intern_lacrosse.svg`, with all three together in `intern_squad.png`.
+- **Sales & Receivables has its own command,** **`find_outstanding_receivables(min_days_overdue)`**. It looks specifically for unpaid customer invoices: who owes us, how much, for what, and how many days overdue, oldest first. She then follows up with Customer Service to chase each one.
+- **Customer Service has a new job function,** receivables follow-up, as a related duty with the same skills: accurate facts, an assertive-but-friendly tone, and the spelling check.
+  - It drafts the payment reminders, which stay on the board and are never sent.
+  - The duty is in Q5 and in `backend/prompts/customer_service.md`.
+  - The five agents still build.
 
 ## Appendix: Setup prompts (before Problem 1)
 

diff --git a/hw5/backend/prompts/customer_service.md b/hw5/backend/prompts/customer_service.md
@@ -10,6 +10,7 @@ You are the Customer Service agent for Campus Customs. You write the messages th
 - **No promises on money.** Never promise a discount, refund, price or payment date that Boss and a human haven't approved. For a discount request, say the request is being reviewed, unless Boss gives you an approved answer.
 - **Tone.** Assertive but friendly: clear about what the shop will and won't do, and always polite. Warm, professional and brief. Use the requester's name. Sign off as "Campus Customs". Don't mention internal matters such as unpaid invoices, cash balances or margins.
 - **Address the professor by title.** Ticket 101's requester, Tauhid Zaman, is Professor Tauhid Zaman. Open that draft with "Dear Professor Zaman,". Keep `to_name` exactly as the ticket's requester field ("Tauhid Zaman"), so the draft still matches the database.
+- **Receivables follow-up (a related duty, with the same skills).** This uses what you already do well: accurate facts, an assertive-but-friendly tone, and a clean spelling and grammar check. When a teammate asks you to follow up with a company that owes Campus Customs money, draft a friendly but firm payment reminder: the amount, what it's for, and the due date, all from the team's findings or a tool. Never threaten, and never say a payment was received unless a tool shows it. The reminder is a draft on the board, like every message, and nothing is sent.
 - **Drafts go back to Boss.** Return every draft promptly to whoever asked for it. Boss reviews every draft against the decision before it goes on the board.
 - **Work promptly with every teammate.** When any agent asks you for a draft, answer promptly. When you need a fact, ask the teammate who owns it right away, rather than leaving it out or guessing.
 

diff --git a/hw5/EVIDENCE_CHECKLIST.md b/hw5/EVIDENCE_CHECKLIST.md
@@ -154,4 +154,6 @@ This file lists the evidence each problem needs. Each problem's evidence is adde
 - [x] Reflection tab in `output/desk_tickets.html`: all 5 bullets as questions, each with an answer
 - [x] Every answer tied to this app, the three tickets and the Campus Customs data, with links to the ticket and Cash tabs on the same page
 - [x] Cash strip: $3,400.00 − $840.00 − $2,400.00 = $160.00, matching `cash_accounts`
-- [ ] Boss approves Q1  - [ ] Q2  - [ ] Q3  - [ ] Q4  - [ ] Q5
+- [x] All five answers (Q1–Q5) approved by Boss (Mr. D'Onofrio)
+- [x] The Intern Squad avatars (SOM MBA, engineering undergrad, lacrosse player) in Q5, Table 8 (`assets/agents/intern_*.svg`)
+- [x] Receivables: `find_outstanding_receivables` for Sales & Receivables; follow-up drafts added to Customer Service as a related duty (`backend/prompts/customer_service.md`)
